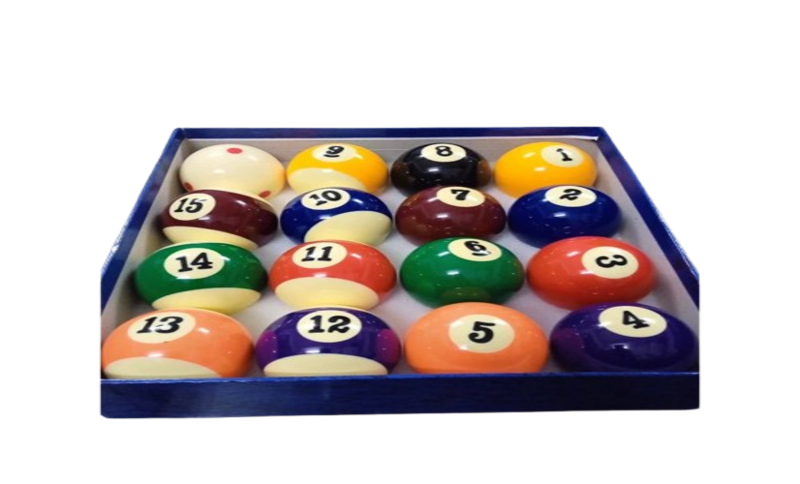
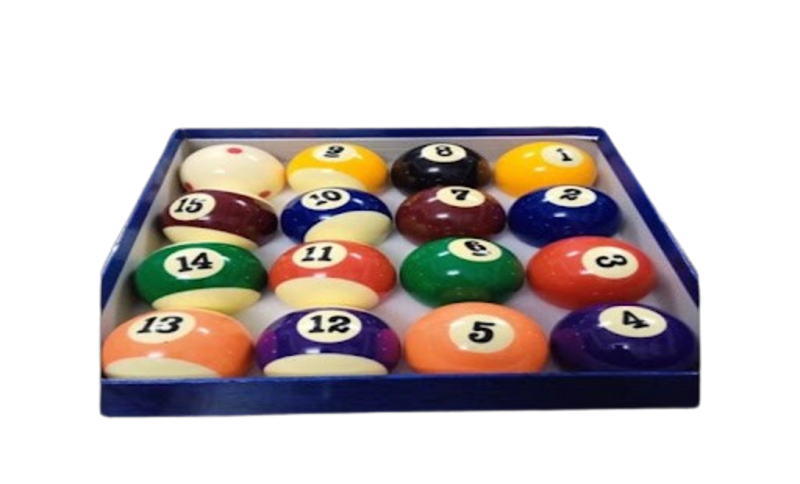
add animation

diff --git a/public/css/home.css b/public/css/home.css
@@ -16,6 +16,56 @@
     padding: 10px 20px;
 }
 
+.main-text button {
+    animation: khampha 2s infinite ease-in-out;
+    box-shadow: 0 0 15px rgba(0, 255, 132, 0.6);
+}
+
+@keyframes khampha {
+    0% {
+        background-color: #00ff84;
+        color: #003020;
+        transform: scale(1) rotate(0deg);
+        box-shadow: 0 0 10px #00ff84;
+    }
+
+    25% {
+        background-color: #ffff00;
+        color: #000000;
+        transform: scale(1.08) rotate(-10deg);
+        box-shadow: 0 0 20px #ffff00;
+    }
+
+    50% {
+        background-color: #ff9900;
+        color: #ffffff;
+        transform: scale(1) rotate(0deg);
+        box-shadow: 0 0 25px #ff9900;
+    }
+
+    75% {
+        background-color: #ff3333;
+        color: #ffffff;
+        transform: scale(1.08) rotate(10deg);
+        box-shadow: 0 0 20px #ff3333;
+    }
+
+    100% {
+        background-color: #00ff84;
+        color: #003020;
+        transform: scale(1) rotate(0deg);
+        box-shadow: 0 0 10px #00ff84;
+    }
+}
+
+.main-text button:hover {
+    animation-play-state: paused;
+    background-color: #ffffff;
+    color: #ff0000;
+    transform: scale(1.15);
+    box-shadow: 0 0 30px #ffffff;
+}
+
 h1 {
     font-size: 350%;
     color:rgb(15, 255, 255);

diff --git a/public/js/login.js b/public/js/login.js
@@ -55,7 +55,7 @@ form.addEventListener('submit', async function(e) {
     const data = await res.text();
 
     if(data === "admin") {
-        show("Bạn Đã Đăng Nhập Admin Thành Công !");
+        show("Admin Đã Đăng Nhập Thành Công !");
 
         setTimeout(() => {
              window.location.href = "../admin/dashboard.html";
